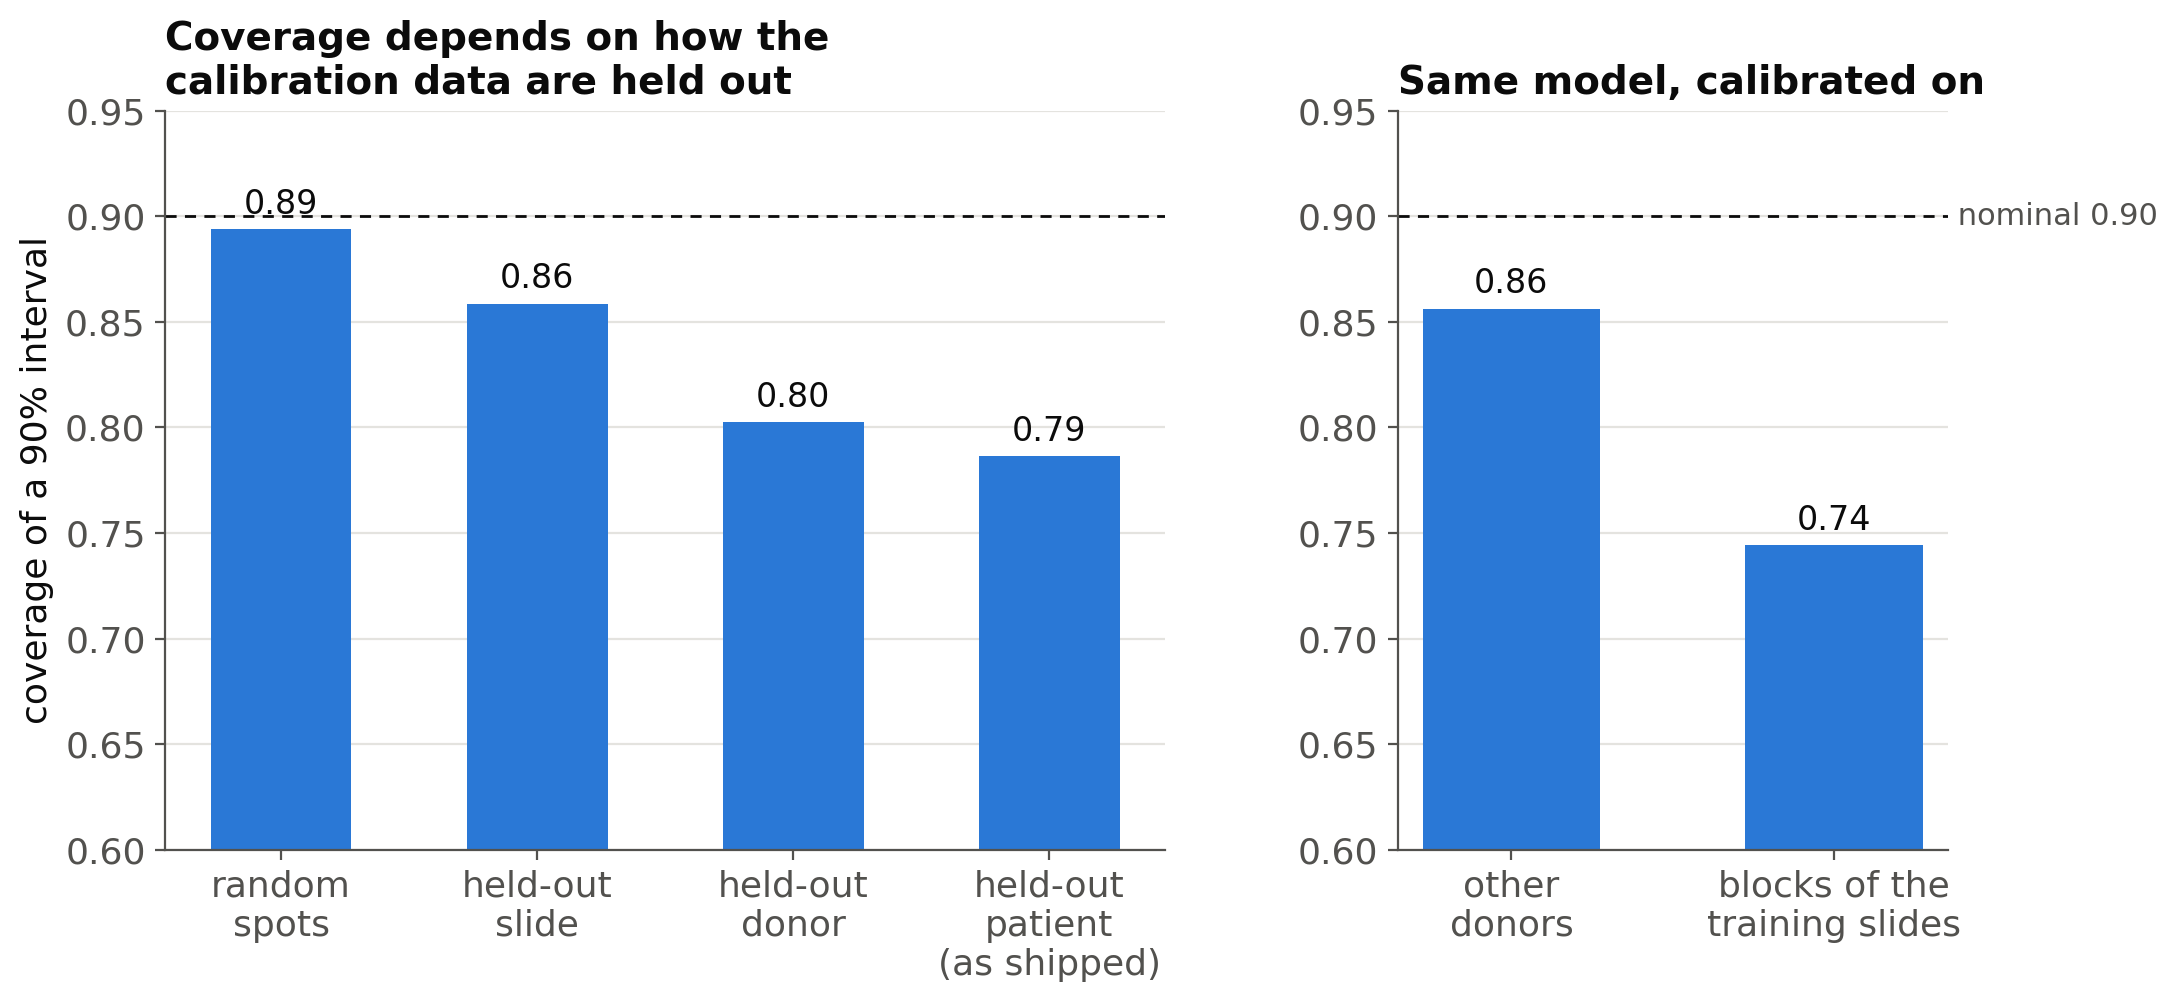
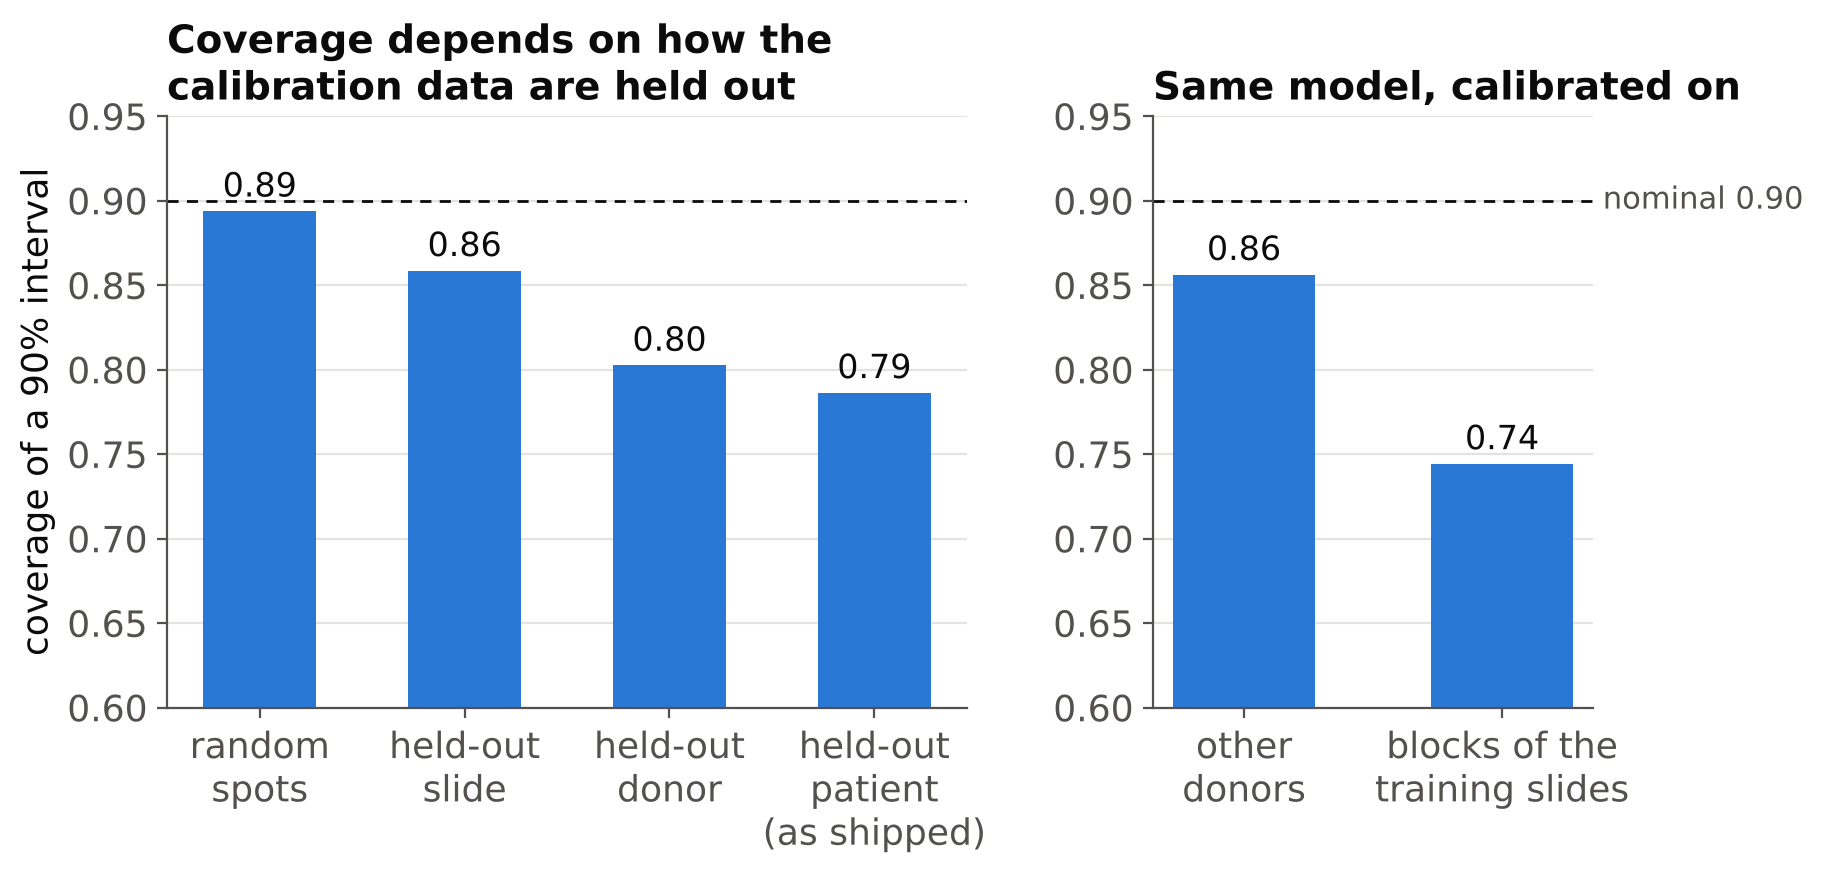
Deck 2 figures: larger labels for slide legibility
Every figure is drawn 20% smaller with unchanged fonts, so text is larger
relative to the plot. The two four-panel figures (f07, f12) become two-by-two
grids, panel titles are shortened, and label collisions are fixed.

Claude-Session: https://claude.ai/code/session_011x8FV1JpiAi4UW2Bu3rdu3

diff --git a/code/scripts/deck2_figures.py b/code/scripts/deck2_figures.py
@@ -28,9 +28,24 @@ plt.rcParams.update({
     "lines.linewidth": 2.0, "lines.markersize": 7,
 })
 
-TASK = {"CCRCC": "Kidney cancer (Visium)", "INDIANA_KIDNEY": "Kidney, one lab (Visium)",
-        "LUNG_XENIUM": "Lung (Xenium)", "ACS_STATES": "ACS income, states", "ACS_CA_PUMA": "ACS income, CA areas",
-        "ACS": "ACS income, states"}
+# Every figure is drawn at FIGSCALE times the size written in its function, with the fonts unchanged.
+# Text is then larger relative to the plot, which is what a slide needs. Set after the first build of the
+# deck, when the labels were too small at slide size.
+FIGSCALE = 0.8
+_subplots = plt.subplots
+
+
+def _scaled_subplots(*args, figsize=None, **kwargs):
+    if figsize is not None:
+        figsize = (figsize[0] * FIGSCALE, figsize[1] * FIGSCALE)
+    return _subplots(*args, figsize=figsize, **kwargs)
+
+
+plt.subplots = _scaled_subplots
+
+TASK = {"CCRCC": "Kidney cancer", "INDIANA_KIDNEY": "Kidney, one lab",
+        "LUNG_XENIUM": "Lung", "ACS_STATES": "Census income, states", "ACS_CA_PUMA": "Census income, CA areas",
+        "ACS": "Census income, states"}
 ENC = {"hoptimus0": "H-optimus-0", "uni_v2": "UNI2", "resnet50": "ResNet50", "package": "income model",
        "permuted": "permuted (no information)"}
 ENC_COL = {"hoptimus0": BLUE, "uni_v2": ORANGE, "resnet50": AQUA, "package": BLUE, "permuted": GREY}
@@ -96,8 +111,8 @@ def f03():
     fig, axes = plt.subplots(1, 2, figsize=(11, 4.4))
     G, per = 8, 28
     pts = [(rng.uniform(0.12, 0.88, per), rng.uniform(0.08, 0.92, per)) for _ in range(G)]
-    for ax, title, mode in [(axes[0], "Regime A: label a few clusters fully", "A"),
-                            (axes[1], "Regime B: label a few units in every cluster", "B")]:
+    for ax, title, mode in [(axes[0], "Regime A\nlabel a few clusters fully", "A"),
+                            (axes[1], "Regime B\nlabel a few units in every cluster", "B")]:
         for g in range(G):
             x0 = g * 1.15
             ax.add_patch(plt.Rectangle((x0, 0), 1, 1, fill=False, ec=MUTED, lw=1.2))
@@ -108,12 +123,12 @@ def f03():
                 lab = np.zeros(per, bool); lab[:4] = True
             ax.scatter(x0 + xs[~lab], ys[~lab], s=22, facecolor="none", edgecolor=GREY, lw=1)
             ax.scatter(x0 + xs[lab], ys[lab], s=26, color=BLUE)
-            ax.text(x0 + 0.5, -0.1, f"{g + 1}", ha="center", va="top", fontsize=11, color=MUTED)
+            ax.text(x0 + 0.5, -0.06, f"{g + 1}", ha="center", va="top", fontsize=12, color=MUTED)
         ax.set_xlim(-0.1, G * 1.15); ax.set_ylim(-0.3, 1.1); ax.axis("off")
         ax.set_title(title, loc="left")
     axes[0].scatter([], [], s=26, color=BLUE, label="labelled unit (measured)")
     axes[0].scatter([], [], s=22, facecolor="none", edgecolor=GREY, label="unlabelled unit (prediction only)")
-    axes[0].legend(loc="upper left", bbox_to_anchor=(0, -0.08), ncol=2, fontsize=11)
+    fig.legend(*axes[0].get_legend_handles_labels(), loc="lower center", bbox_to_anchor=(0.5, -0.06), ncol=2, fontsize=12, markerscale=1.6)
     save(fig, "f03_two_regimes_schematic")
 
 
@@ -135,7 +150,7 @@ def f04():
     s0 = q[(q.target == "design") & (q.form == "complement") & (q.lambda_rule == "a_b1") & (q.interval == "CR1_t") & (~q.fpc)].sort_values("G_L")
     ax.plot(s1.G_L, s1.cov_median, color=BLUE, marker="o", label="with finite-population correction")
     ax.plot(s0.G_L, s0.cov_median, color=ORANGE, marker="s", label="without (earlier form)")
-    ax.set_title("When the clusters at hand are the population (24)", loc="left"); ax.set_xlabel("labelled clusters, of 24")
+    ax.set_title("When the 24 clusters are the population", loc="left"); ax.set_xlabel("labelled clusters, of 24")
     ax.set_xticks([4, 6, 8, 12, 20]); ax.legend(loc="upper left", bbox_to_anchor=(0, -0.2), fontsize=10.5)
     nominal(ax)
     save(fig, "f04_interval_coverage_simulation")
@@ -204,7 +219,8 @@ def f06():
 def f07():
     R, t = _gain_table()
     tasks = ["CCRCC", "INDIANA_KIDNEY", "LUNG_XENIUM", "ACS_STATES"]
-    fig, axes = plt.subplots(1, 4, figsize=(14, 4.3), sharey=True, gridspec_kw=dict(wspace=0.1))
+    fig, axes = plt.subplots(2, 2, figsize=(9.6, 7.6), sharey=True, sharex=True, gridspec_kw=dict(wspace=0.08, hspace=0.22))
+    axes = axes.ravel()
     for ax, v in zip(axes, tasks):
         for arm in ["hoptimus0", "uni_v2", "resnet50", "package", "permuted"]:
             s = t[(t.vtag == v) & (t.arm == arm) & (t.n_L >= 6)].sort_values("n_L")
@@ -216,18 +232,18 @@ def f07():
             if arm != "permuted" and len(rr):
                 ax.plot([s.n_L.max() + 0.6, s.n_L.max() + 1.6], [1 - rr.R2_cluster_raw.iloc[0]] * 2, color=ENC_COL[arm], lw=3, solid_capstyle="butt")
         ax.axhline(1, color=GREY, lw=1); ax.set_title(TASK[v], loc="left", fontsize=12.5)
-        ax.set_xlabel("labelled clusters"); ax.set_xticks([6, 8, 12, 16]); ax.set_xlim(5, 18.5); ax.set_ylim(0, 1.15)
-    axes[0].set_ylabel("variance ratio, PPI / classical")
-    axes[0].text(17.6, 0.46, "floors", ha="center", va="top", fontsize=10, color=MUTED)
+        ax.set_xticks([6, 8, 12, 16]); ax.set_xlim(5, 18.5); ax.set_ylim(0, 1.15)
+    for ax in axes[2:]:
+        ax.set_xlabel("labelled clusters")
+    fig.supylabel("variance ratio, PPI / classical", fontsize=13, x=0.03)
+    axes[0].text(17.1, 0.46, "floors", ha="center", va="top", fontsize=12, color=MUTED)
     h, l = [], []
     for ax in (axes[0], axes[3]):
         hh, ll = ax.get_legend_handles_labels()
         for a, b in zip(hh, ll):
             if b not in l:
                 h.append(a); l.append(b)
-    fig.legend(h, l, loc="lower center", ncol=5, bbox_to_anchor=(0.5, -0.1), fontsize=11)
-    fig.suptitle("Observed ratio by number of labelled clusters; short bars on the right mark each predictor's floor",
-                 x=0.07, ha="left", fontsize=13, fontweight="bold", y=1.02)
+    fig.legend(h, l, loc="lower center", ncol=3, bbox_to_anchor=(0.5, -0.1), fontsize=12)
     save(fig, "f07_ratio_by_labelled_clusters")
 
 
@@ -262,7 +278,7 @@ def f09():
         ax.set_ylim(0, None)
     axes[0].set_ylabel("variance of the PPI estimate\n(relative to regime A at 2,400)")
     h, l = axes[0].get_legend_handles_labels()
-    fig.legend(h, l, loc="lower center", ncol=2, bbox_to_anchor=(0.5, -0.12), fontsize=11)
+    fig.legend(h, l, loc="lower center", ncol=2, bbox_to_anchor=(0.5, -0.2), fontsize=12)
     save(fig, "f09_regime_A_vs_B")
 
 
@@ -307,7 +323,7 @@ def f11():
     fin = d[d.ratio.notna()]
     ax.plot(fin.K, fin.ratio, color=BLUE, marker="o")
     ax.axvspan(3.5, 8.9, color=GRID, alpha=0.7, lw=0)
-    ax.text(6.2, 1.5, "infinite\n(K + 1 < 1/α)", ha="center", va="center", color=MUTED, fontsize=11)
+    ax.text(6.2, 1.5, "infinite", ha="center", va="center", color=MUTED, fontsize=11)
     ax.axhline(1, color=GREY, lw=1); ax.set_xlim(3.5, 20.5); ax.set_ylim(0.9, 2.1)
     ax.set_xlabel("calibration donors K"); ax.set_ylabel("width, hierarchical / pooled")
     ax.set_title("Price of validity (kidney cancer)", loc="left")
@@ -320,7 +336,8 @@ def f12():
     o = o[(o.alpha == 0.1) & (o.K == 10) & (o.score == "abs")]
     g = o.groupby(["task", "method", "o"])[["coverage", "width_mean", "finite"]].mean().reset_index()
     tasks = ["CCRCC", "INDIANA_KIDNEY", "LUNG_XENIUM", "ACS"]
-    fig, axes = plt.subplots(1, 4, figsize=(14, 4.3), gridspec_kw=dict(wspace=0.25))
+    fig, axes = plt.subplots(2, 2, figsize=(9.6, 7.6), sharex=True, gridspec_kw=dict(wspace=0.16, hspace=0.22))
+    axes = axes.ravel()
     for ax, v in zip(axes, tasks):
         hcp = g[(g.task == v) & (g.method == "hcp") & (g.o == 0)].width_mean.iloc[0]
         ax.axhline(hcp, color=GREY, lw=2, ls=(0, (4, 3)), label="hierarchical, no labelled units")
@@ -330,11 +347,13 @@ def f12():
             s = g[(g.task == v) & (g.method == m) & (g.finite > 0.999)].sort_values("o")
             ax.plot(s.o, s.width_mean, color=col, marker=mk, label=lab)
         ax.set_xscale("log"); ax.set_xticks([5, 10, 25, 50, 100, 200]); ax.set_xticklabels(["5", "10", "25", "50", "100", "200"])
-        ax.minorticks_off(); ax.set_ylim(0, None); ax.set_title(TASK[v], loc="left", fontsize=12.5); ax.set_xlabel("labelled units, new cluster")
-    axes[0].set_ylabel("mean width of a valid 90% set")
+        ax.minorticks_off(); ax.set_ylim(0, None); ax.set_title(TASK[v], loc="left", fontsize=12.5)
+    for ax in axes[2:]:
+        ax.set_xlabel("labelled units in the new cluster")
+    fig.supylabel("mean width of a valid 90% set", fontsize=13, x=0.04)
     h, l = axes[0].get_legend_handles_labels()
-    fig.legend(h, l, loc="lower center", ncol=4, bbox_to_anchor=(0.5, -0.12), fontsize=11)
-    fig.suptitle("10 calibration clusters. A method is drawn only where its set is finite.", x=0.07, ha="left", fontsize=13, fontweight="bold", y=1.02)
+    fig.legend(h, l, loc="lower center", ncol=2, bbox_to_anchor=(0.5, -0.09), fontsize=12)
+    fig.suptitle("10 calibration clusters. A method is drawn only where its set is finite.", x=0.07, ha="left", fontsize=13, fontweight="bold", y=0.97)
     save(fig, "f12_prediction_sets_by_labelled_units")
 
 
@@ -346,19 +365,19 @@ def f13():
     ax = axes[0]
     K = np.arange(1, 13)
     ax.bar(K, np.maximum(0, 1 - 0.1 * (K + 1)), width=0.6, color=BLUE)
-    ax.set_xlabel("calibration clusters K"); ax.set_ylabel("probability an infinite set is forced")
-    ax.set_title(r"$1 - \alpha(K+1)$ at $\alpha = 0.1$", loc="left"); ax.set_xticks(K); ax.grid(axis="x", visible=False)
+    ax.set_xlabel("calibration clusters K"); ax.set_ylabel("probability of a forced infinite set")
+    ax.set_title(r"$1 - \alpha(K+1)$ at $\alpha = 0.1$", loc="left"); ax.set_xticks([1, 2, 3, 4, 5, 6, 7, 8, 10, 12]); ax.grid(axis="x", visible=False)
     ax = axes[1]
     ax.plot(lb.K, lb.min_coverage_any_valid, color=BLUE, marker="o")
-    ax.set_xlabel("calibration clusters K"); ax.set_ylabel("least coverage of any finite valid method")
-    ax.set_title("A finite set must over-cover", loc="left"); ax.set_xticks(lb.K); ax.set_ylim(0.89, 1.005); nominal(ax, label="")
+    ax.set_xlabel("calibration clusters K"); ax.set_ylabel("least coverage, finite valid method")
+    ax.set_title("A finite set must over-cover", loc="left"); ax.set_xticks([1, 2, 3, 4, 5, 6, 7, 8, 10, 12]); ax.set_ylim(0.89, 1.005); nominal(ax, label="")
     save(fig, "f13_lower_bound_small_K")
 
 
 # ------------------------------------------------------------------ f14 recap strip for the "efforts" slide
 def f14():
     """Three panels redrawn from the first deck's source tables, one per finding of the replication."""
-    fig, axes = plt.subplots(1, 3, figsize=(16.5, 4.3), gridspec_kw=dict(wspace=0.5, width_ratios=[1.0, 1.0, 1.15]))
+    fig, axes = plt.subplots(1, 3, figsize=(16.5, 4.3), gridspec_kw=dict(wspace=0.62, width_ratios=[1.0, 1.0, 1.15]))
     # (a) the head's scale ratio by image model
     ax = axes[0]
     be = pd.read_csv("results/round2/R1b_heads/r1b_ladder_by_encoder.csv").sort_values("rho_over_r")
@@ -368,8 +387,8 @@ def f14():
     ax.text(pooled, len(be) - 0.3, f" pooled {pooled:.2f}", color=INK, fontsize=12, va="bottom", ha="left")
     ax.set_yticks([]); ax.set_ylabel("12 image models"); ax.set_xlim(1.0, float(be.rho_over_r.max()) * 1.08)
     ax.set_ylim(-0.7, len(be) + 0.6); ax.grid(axis="y", visible=False)
-    ax.set_xlabel("spread of predictions over the optimal spread")
-    ax.set_title("1. Predictions are spread too widely", loc="left")
+    ax.set_xlabel("prediction spread / optimal spread")
+    ax.set_title("1. Spread too wide", loc="left")
     # (b) the session signature, in the features and in the expression
     ax = axes[1]
     P = pd.read_csv("results/round2/R4_probes/r4_probes_v2.csv")
@@ -381,16 +400,15 @@ def f14():
             ax.bar(k + (j - 1) * w, float(sub.loc[e, "acc_blocked"]), width=w * 0.9, color=ENC_COL[e], label=ENC[e] if k == 0 else None)
         ch = float(sub.chance.iloc[0])
         ax.plot([k - 1.6 * w, k + 1.6 * w], [ch, ch], color=INK, lw=1.2, ls=(0, (4, 3)))
-        ax.text(k + 1.7 * w, ch, "chance", color=MUTED, fontsize=11, va="center", ha="left")
     PV = pd.read_csv("results/round2/R6_variance/r6_prad_session_variance.csv")
     comps = ["within_slide", "between_slide_within_session", "between_session"]
     share = float(PV["between_session"].sum() / PV[comps].sum().sum())
     ax.set_xticks([0, 1]); ax.set_xticklabels(["which slide", "which\nscan session"]); ax.set_xlim(-0.6, 1.95)
     ax.set_ylim(0, 1.42); ax.set_yticks(np.arange(0, 1.01, 0.25)); ax.grid(axis="x", visible=False)
     ax.set_ylabel("accuracy from image features")
-    ax.text(0.675, 1.24, f"The same session axis is {share * 100:.1f}%\nof the variance in expression", ha="center", va="center", fontsize=12, color=INK)
+    ax.text(0.675, 1.24, f"dashed: chance. Same axis in\nexpression: {share * 100:.1f}% of variance", ha="center", va="center", fontsize=12, color=INK)
     ax.legend(loc="upper center", bbox_to_anchor=(0.5, -0.2), ncol=3, fontsize=11, handlelength=1.2, columnspacing=1.2)
-    ax.set_title("2. A session signature in the features", loc="left")
+    ax.set_title("2. Session signature", loc="left")
     # (c) between-donor share of expression variance, by task
     ax = axes[2]
     V = pd.read_csv("results/round2/R6_variance/r6_variance_by_task.csv")
@@ -401,9 +419,9 @@ def f14():
         ax.text(r.frac_donor + 0.008, i, f"{r.frac_donor:.2f}", va="center", ha="left", fontsize=11, color=INK if strong[i] else MUTED)
     ax.set_yticks(np.arange(len(V))); ax.set_yticklabels([f"{r.task} ({int(r.donors)})" for _, r in V.iterrows()], fontsize=11)
     ax.set_xlim(0, 0.5); ax.grid(axis="y", visible=False)
-    ax.set_xlabel("between-donor share of expression variance")
-    ax.text(0.49, 0.2, "task (donors)\nblue: 4 or more donors,\nlabels verified", ha="right", va="bottom", fontsize=11, color=MUTED)
-    ax.set_title("3. The donor is the unit", loc="left")
+    ax.set_xlabel("between-donor share of variance")
+    ax.text(0.49, 0.2, "task (donors)\nblue: 4 or more\ndonors, verified", ha="right", va="bottom", fontsize=11, color=MUTED)
+    ax.set_title("3. Donor is the unit", loc="left")
     save(fig, "f14_recap_strip")
 
 
